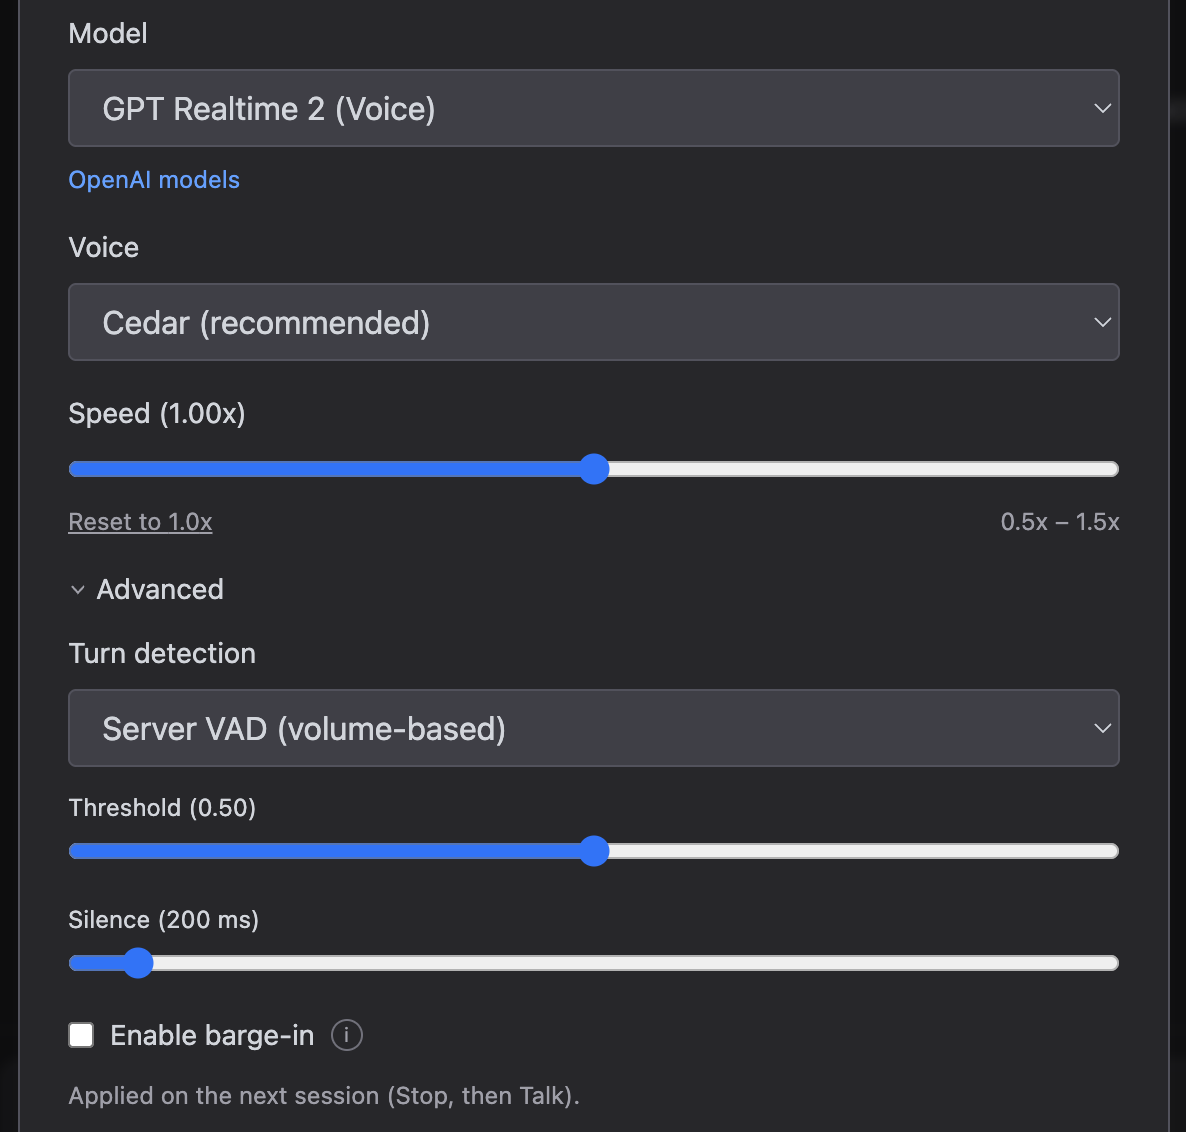
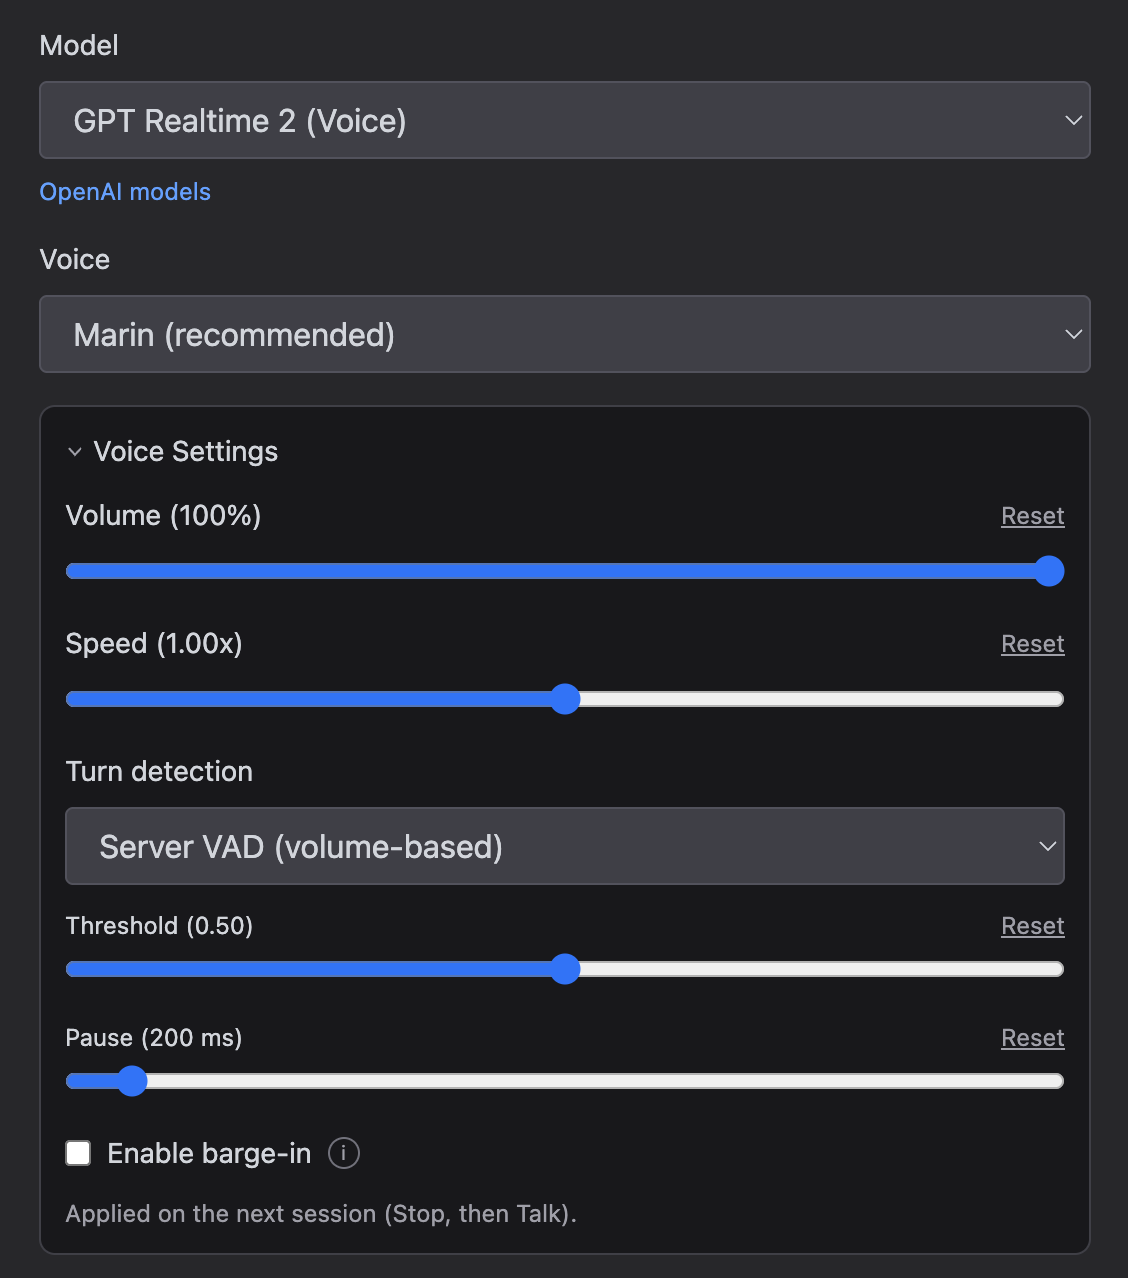
docs: update chat UI voice settings (volume slider, layout polish)
Reflect the Voice Settings disclosure (Voice is the only control outside
it), document the live output volume slider and the per-slider Reset links,
and rename Silence to Pause. Refresh the screenshot and fix the barge-in
in-page link after the heading rename.

Changed region(s): [[0.0, 0.0, 1.0, 0.9894]]

diff --git a/docs/guide/chat-ui.md b/docs/guide/chat-ui.md
@@ -132,7 +132,7 @@ realtime model to talk with the AI out loud. It is **OpenAI only** (for now) and
 To enter voice mode, open [Settings](#settings), set the **Provider** to
 **OpenAI**, and select the **GPT Realtime 2 (Voice)** model. The chat composer
 is replaced by the voice controls described below. See [Voice settings](#voice)
-for the voice, speed, and turn-detection options.
+for the voice, volume, speed, and turn-detection options.
 
 > Voice currently works in Chrome (other Chromium browsers like Edge are likely
 > fine but untested). Firefox is not supported.
@@ -158,8 +158,7 @@ but for speech:
   microphone without ending the session.
 - **Interrupt** - Appears while the assistant is thinking or speaking. Cuts off
   the current response so you can take over (the transcript so far is kept). To
-  interrupt by simply speaking instead, enable
-  [barge-in](#turn-detection-advanced).
+  interrupt by simply speaking instead, enable [barge-in](#voice-settings).
 - **Voice label** - Shows the active voice. It turns amber when you change the
   voice in settings mid-session, as a reminder that the change applies on the
   next Stop → Talk.
@@ -244,8 +243,8 @@ You may need to change the URL if:
 Producer Pal includes an experimental voice mode for spoken conversations with
 the AI. Voice mode is **OpenAI only** (for now) and **requires an OpenAI API
 key**. To use it, set the **Provider** to **OpenAI** and select the **GPT
-Realtime 2 (Voice)** model on the [Connection](#connection) tab — the voice
-settings below then appear.
+Realtime 2 (Voice)** model on the [Connection](#connection) tab — the **Voice**
+dropdown and a collapsible **Voice Settings** section then appear.
 
 <img src="/img/producer-pal-chat-settings-voice.png" alt="Voice settings" width="500"/>
 
@@ -253,20 +252,25 @@ settings below then appear.
   more). Marin and Cedar are recommended for the best audio quality. The voice
   locks once a session starts talking, so changing it applies on the next
   session (Stop, then Talk).
+
+#### Voice Settings
+
+The **Voice Settings** disclosure groups playback and turn-detection options.
+Each slider has a **Reset** link to restore its default. Changes apply on the
+next session (Stop, then Talk) — except **Volume**, which takes effect
+immediately.
+
+- **Volume** - Output loudness of the assistant's voice (0–100%, default 100%).
+  Adjustable live during a session, so you can balance the assistant against the
+  music coming from Ableton without touching Live's mixer.
 - **Speed** - Playback speed of the assistant's voice (0.5×–1.5×, default 1.0×).
-
-#### Turn detection (Advanced)
-
-The **Advanced** disclosure controls how the model decides you've finished
-speaking — known as voice activity detection, or "VAD". As with the other voice
-settings, changes apply on the next session (Stop, then Talk).
-
-- **Turn detection** - The VAD strategy:
+- **Turn detection** - How the model decides you've finished speaking — voice
+  activity detection, or "VAD":
   - **Server VAD (volume-based)** - Detects the end of your turn from audio
     volume. Adds two tuning sliders:
     - **Threshold** - Activation volume (0–1). Higher values ignore quieter
       input.
-    - **Silence** - How long (in milliseconds) to wait after you stop speaking
+    - **Pause** - How long (in milliseconds) to wait after you stop speaking
       before ending your turn.
   - **Semantic VAD (model-based)** - The model decides when you've finished a
     thought. Adds one setting:
